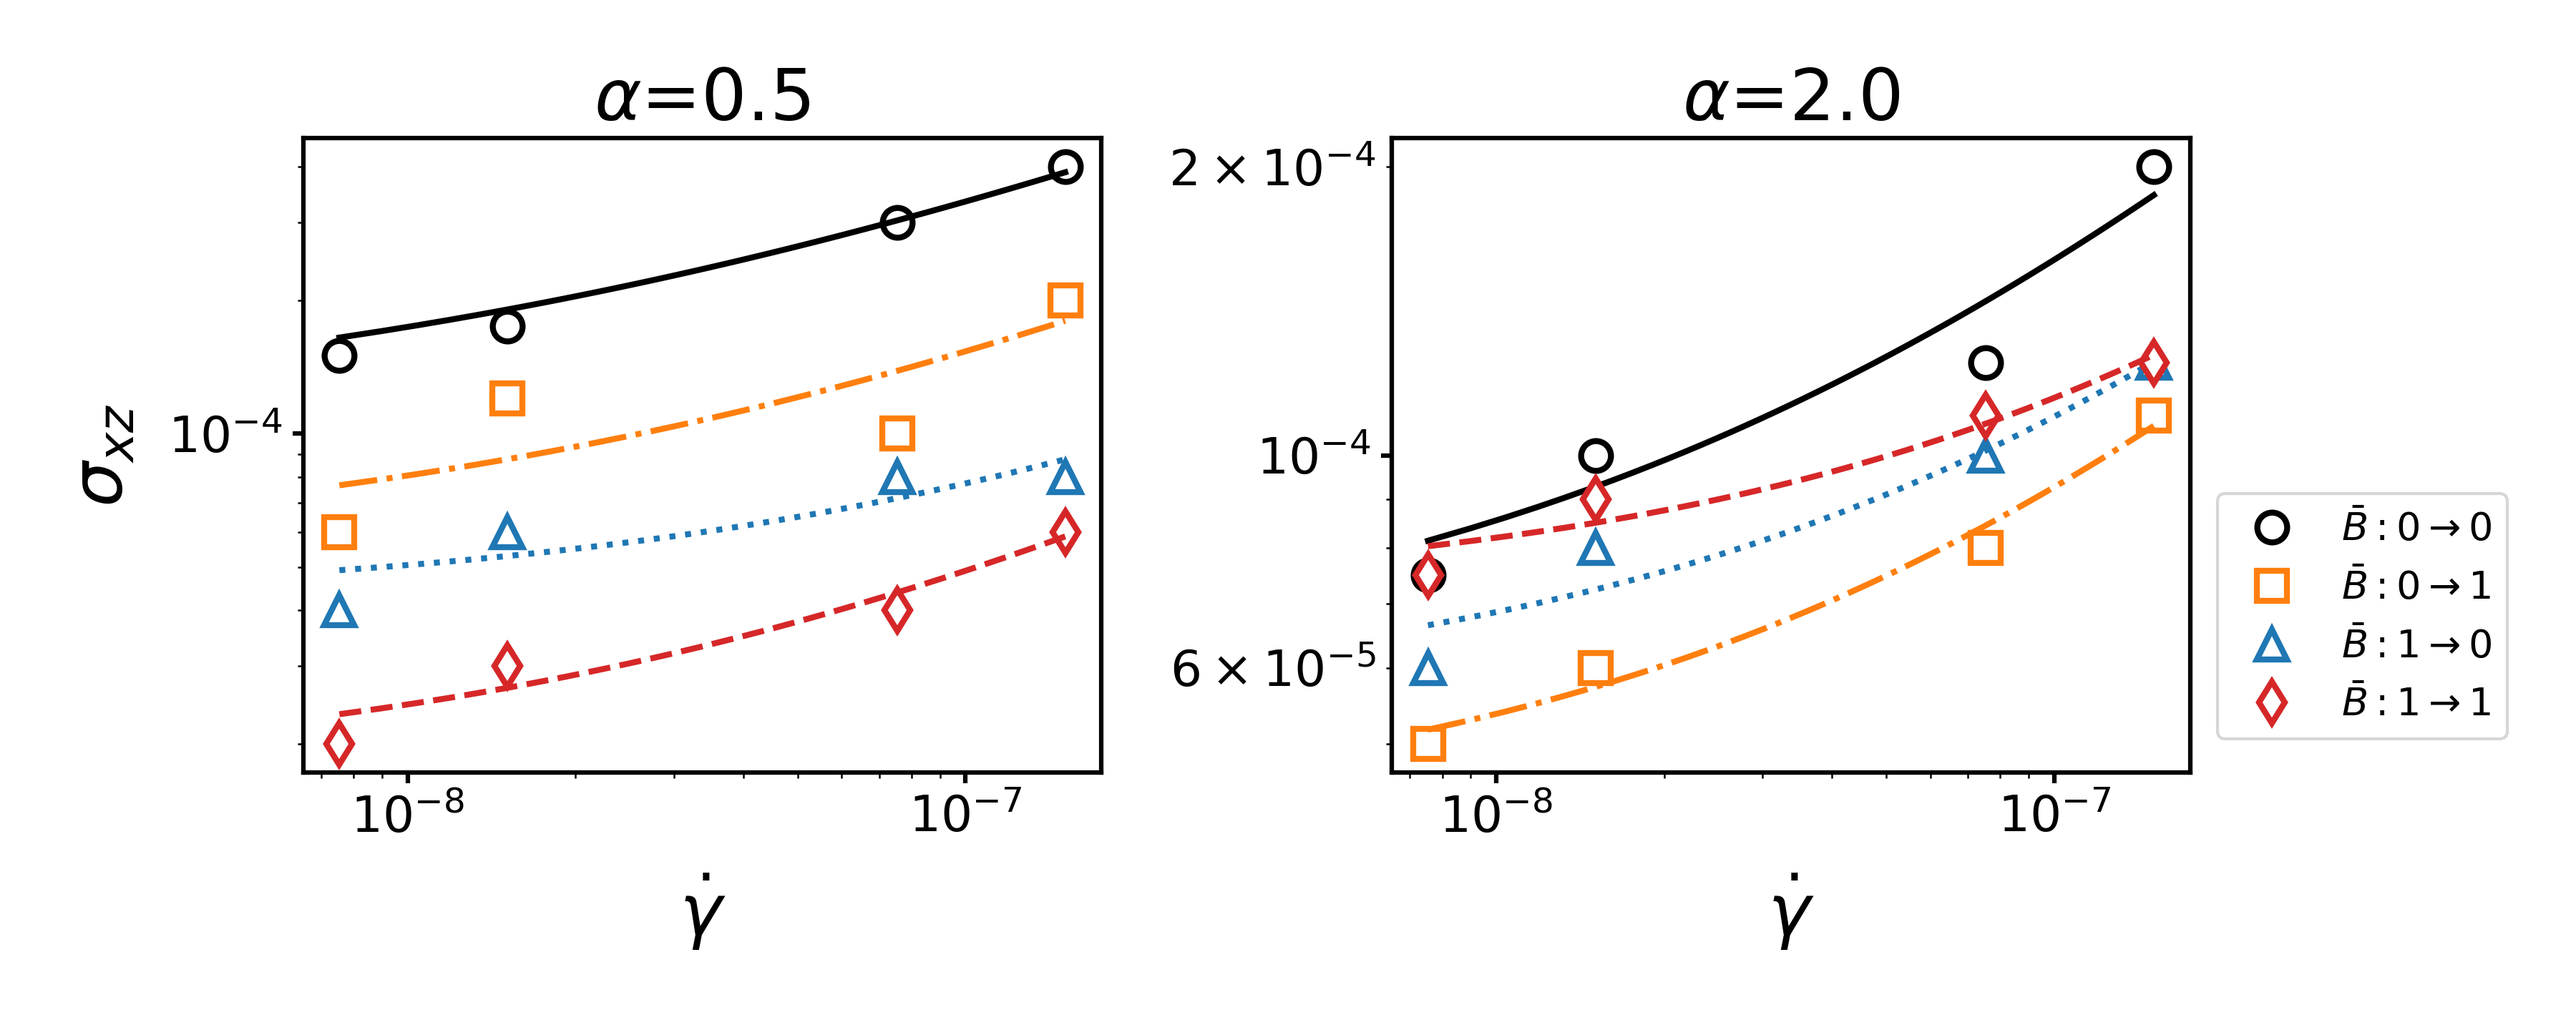
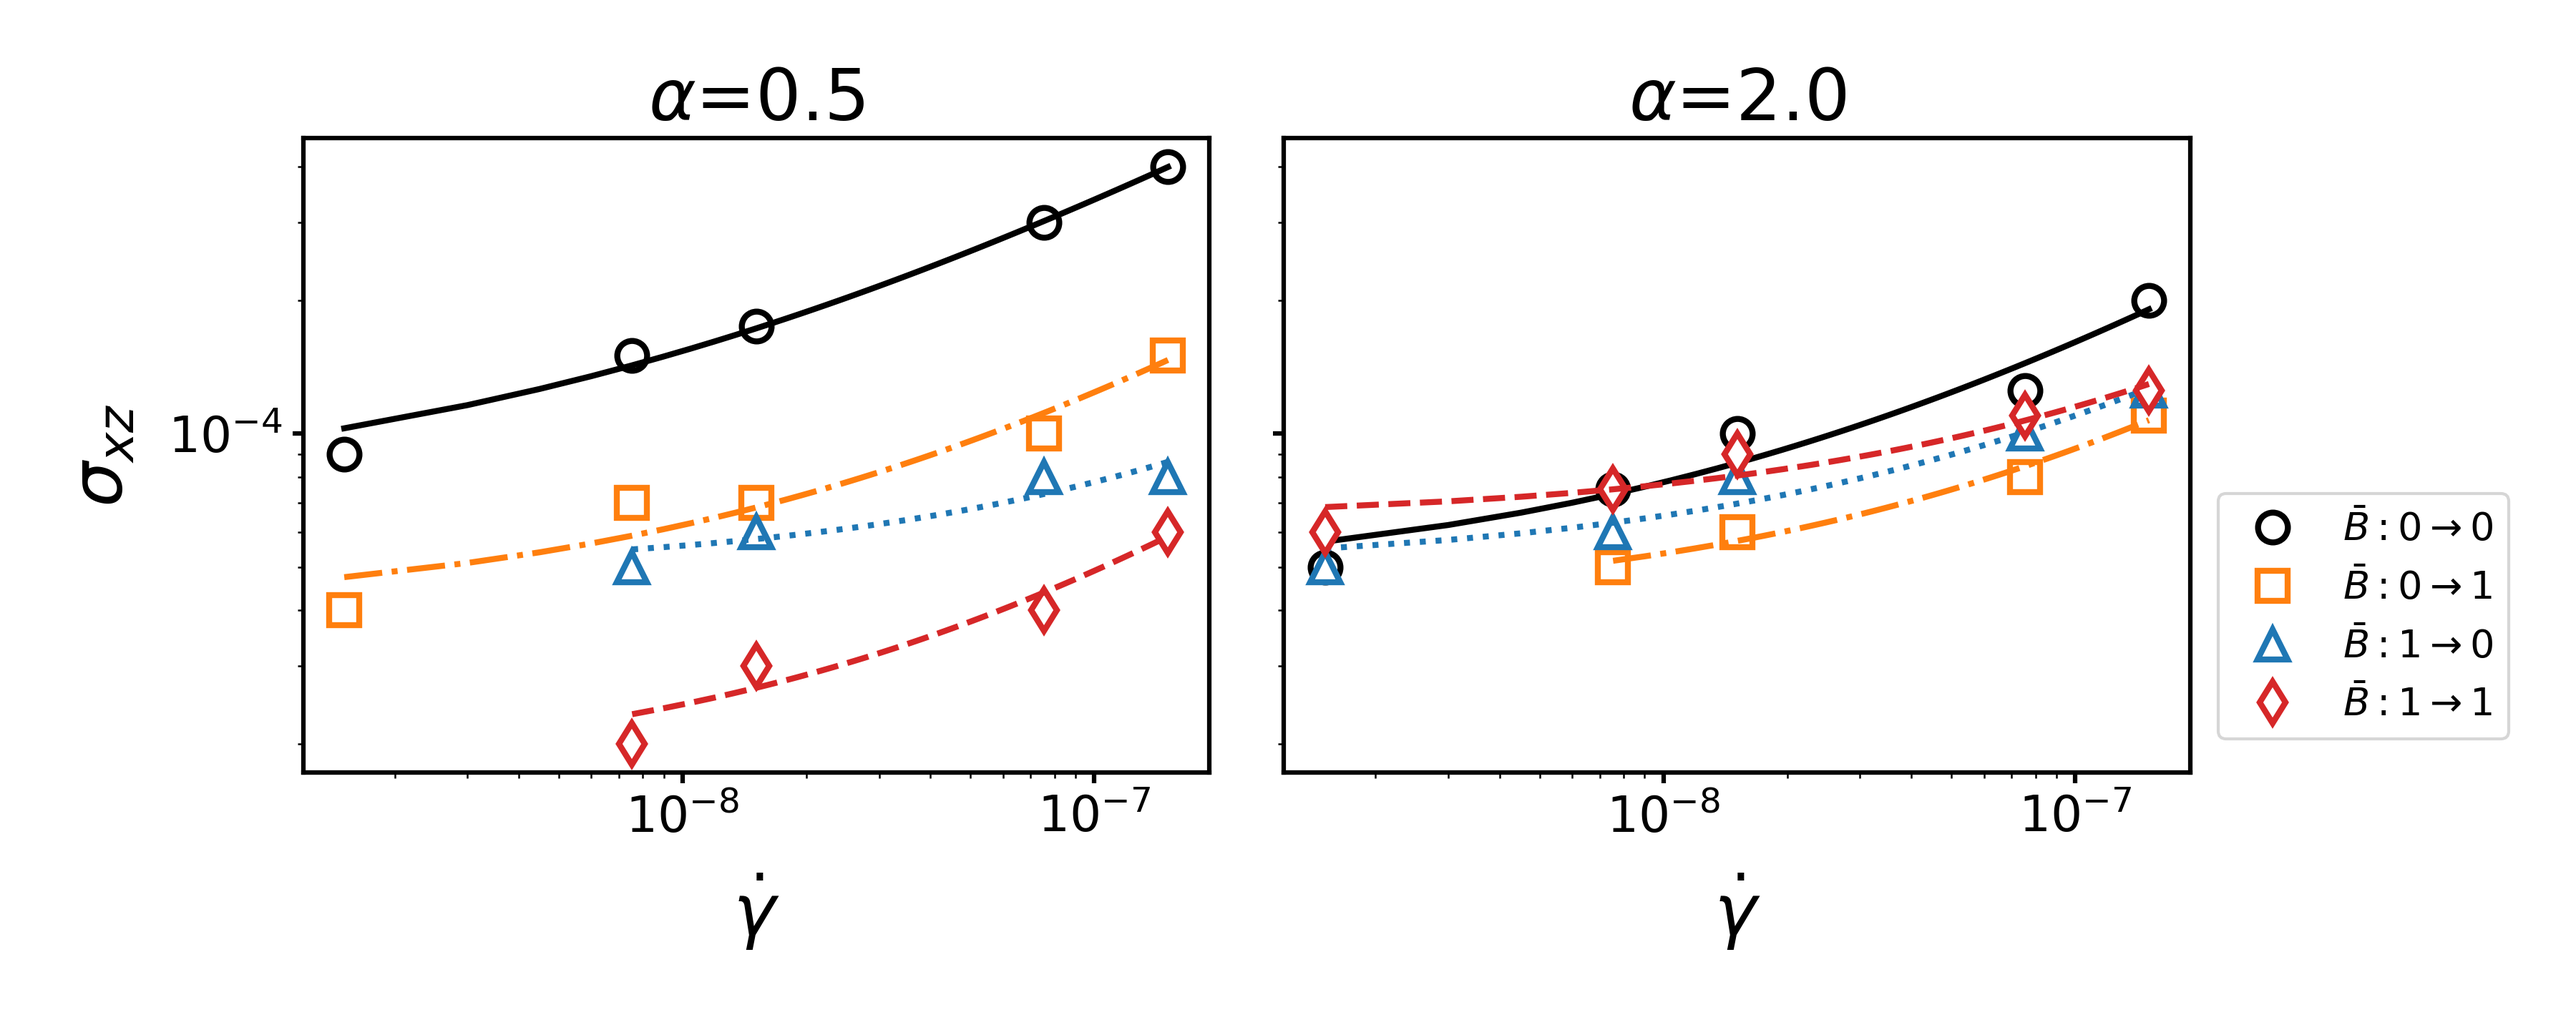
updating plot for herschel buckley fit

diff --git a/chapters/paper3.tex b/chapters/paper3.tex
@@ -222,39 +222,26 @@ of magnetic fields.
      \hline
      Processing & $\alpha$ & $n$ & $K \frac{\Delta m (\Delta t)^{n-2}}{\Delta x} $ & $\sigma_{y} \frac{\Delta m}{\Delta x (\Delta t)^2}$ \\ [0.5ex] 
      \hline\hline
-     $\bar{B}: 0 \rightarrow 0$ & 0.5 & 0.522 & 1.030 & $1.054 \cdot 10^{-4}$ \\ 
+     $\bar{B}: 0 \rightarrow 0$ & 0.5 & 0.511 & 0.999 & $7.168 \cdot 10^{-5}$ \\ 
      \hline
-     $\bar{B}: 0 \rightarrow 1$ & 0.5 & 0.570 & 0.975 & $5.365 \cdot 10^{-5}$ \\
+     $\bar{B}: 0 \rightarrow 1$ & 0.5 & 0.579 & 0.944 & $4.008 \cdot 10^{-5}$ \\
      \hline
-     $\bar{B}: 1 \rightarrow 0$ & 0.5 & 0.629 & 0.886 & $4.238 \cdot 10^{-5}$ \\
+     $\bar{B}: 1 \rightarrow 0$ & 0.5 & 0.642 & 0.888 & $4.945 \cdot 10^{-5}$ \\
      \hline
-     $\bar{B}: 1 \rightarrow 1$ & 0.5 & 0.637 & 0.914 & $1.714 \cdot 10^{-5}$ \\
+     $\bar{B}: 1 \rightarrow 1$ & 0.5 & 0.637 & 0.914 & $1.715 \cdot 10^{-5}$ \\
      \hline
-     $\bar{B}: 0 \rightarrow 0$ & 2 & 0.569 & 0.984 & $5.803 \cdot 10^{-5}$ \\
+     $\bar{B}: 0 \rightarrow 0$ & 2 & 0.561 & 0.965 & $4.618 \cdot 10^{-5}$ \\
      \hline
      $\bar{B}: 0 \rightarrow 1$ & 2 & 0.609 & 0.944 & $4.101 \cdot 10^{-5}$ \\
      \hline
-     $\bar{B}: 1 \rightarrow 0$ & 2 & 0.604 & 0.923 & $5.496 \cdot 10^{-5}$ \\
+     $\bar{B}: 1 \rightarrow 0$ & 2 & 0.597 & 0.899 & $5.025 \cdot 10^{-5}$ \\
      \hline
-     $\bar{B}: 1 \rightarrow 1$ & 2 & 0.618 & 0.909 & $7.161 \cdot 10^{-5}$ \\ [1ex] 
+     $\bar{B}: 1 \rightarrow 1$ & 2 & 0.606 & 0.885 & $6.435 \cdot 10^{-5}$ \\ [1ex] 
      \hline
     \end{tabular}
     \caption{Hershel Buckley fit parameters for different processing conditions applied to bijels stabilized by ellipsoidal particles.}
     \label{table:rheology_fit}
 \end{table}
-
-% \begin{table}[h!]
-%     \centering
-%     \begin{tabular}{||c c c c c c c c c c c c c||} 
-%      \hline
-%      $t_{sim}$ & $L_x$ & $\rho_f$ & $\tau$ & $\eta_f$ & $g_{cc'}$ & $\sigma$ & $\phi_f$ & $\rho_p$ & $\phi_p$ & $V_p$ & $d_c$ & $K_H$ \\ [0.5ex] 
-%      \hline\hline
-%      $10^5$ & 256 & 0.7 & 1 & 0.117 & 0.08 & 0.0267 & 0.5 & 1 & 0.15 & 2000$\pi$ & 2/3 & 100\\ [1ex] 
-%      \hline
-%     \end{tabular}
-%     \caption{Summary of the fluid, particle and model parameters used in the proposed simulations}
-%     \label{table:model_params}
-%     \end{table}
  
 We characterize that the yield stress of bijels stabilized with oblate particles decrease as particle order increases while decreasing then increasing for 
 prolate particles. This can be attributed to the morphology differences that lead to different interfacial packing, characterized with the rdf in Figure 
